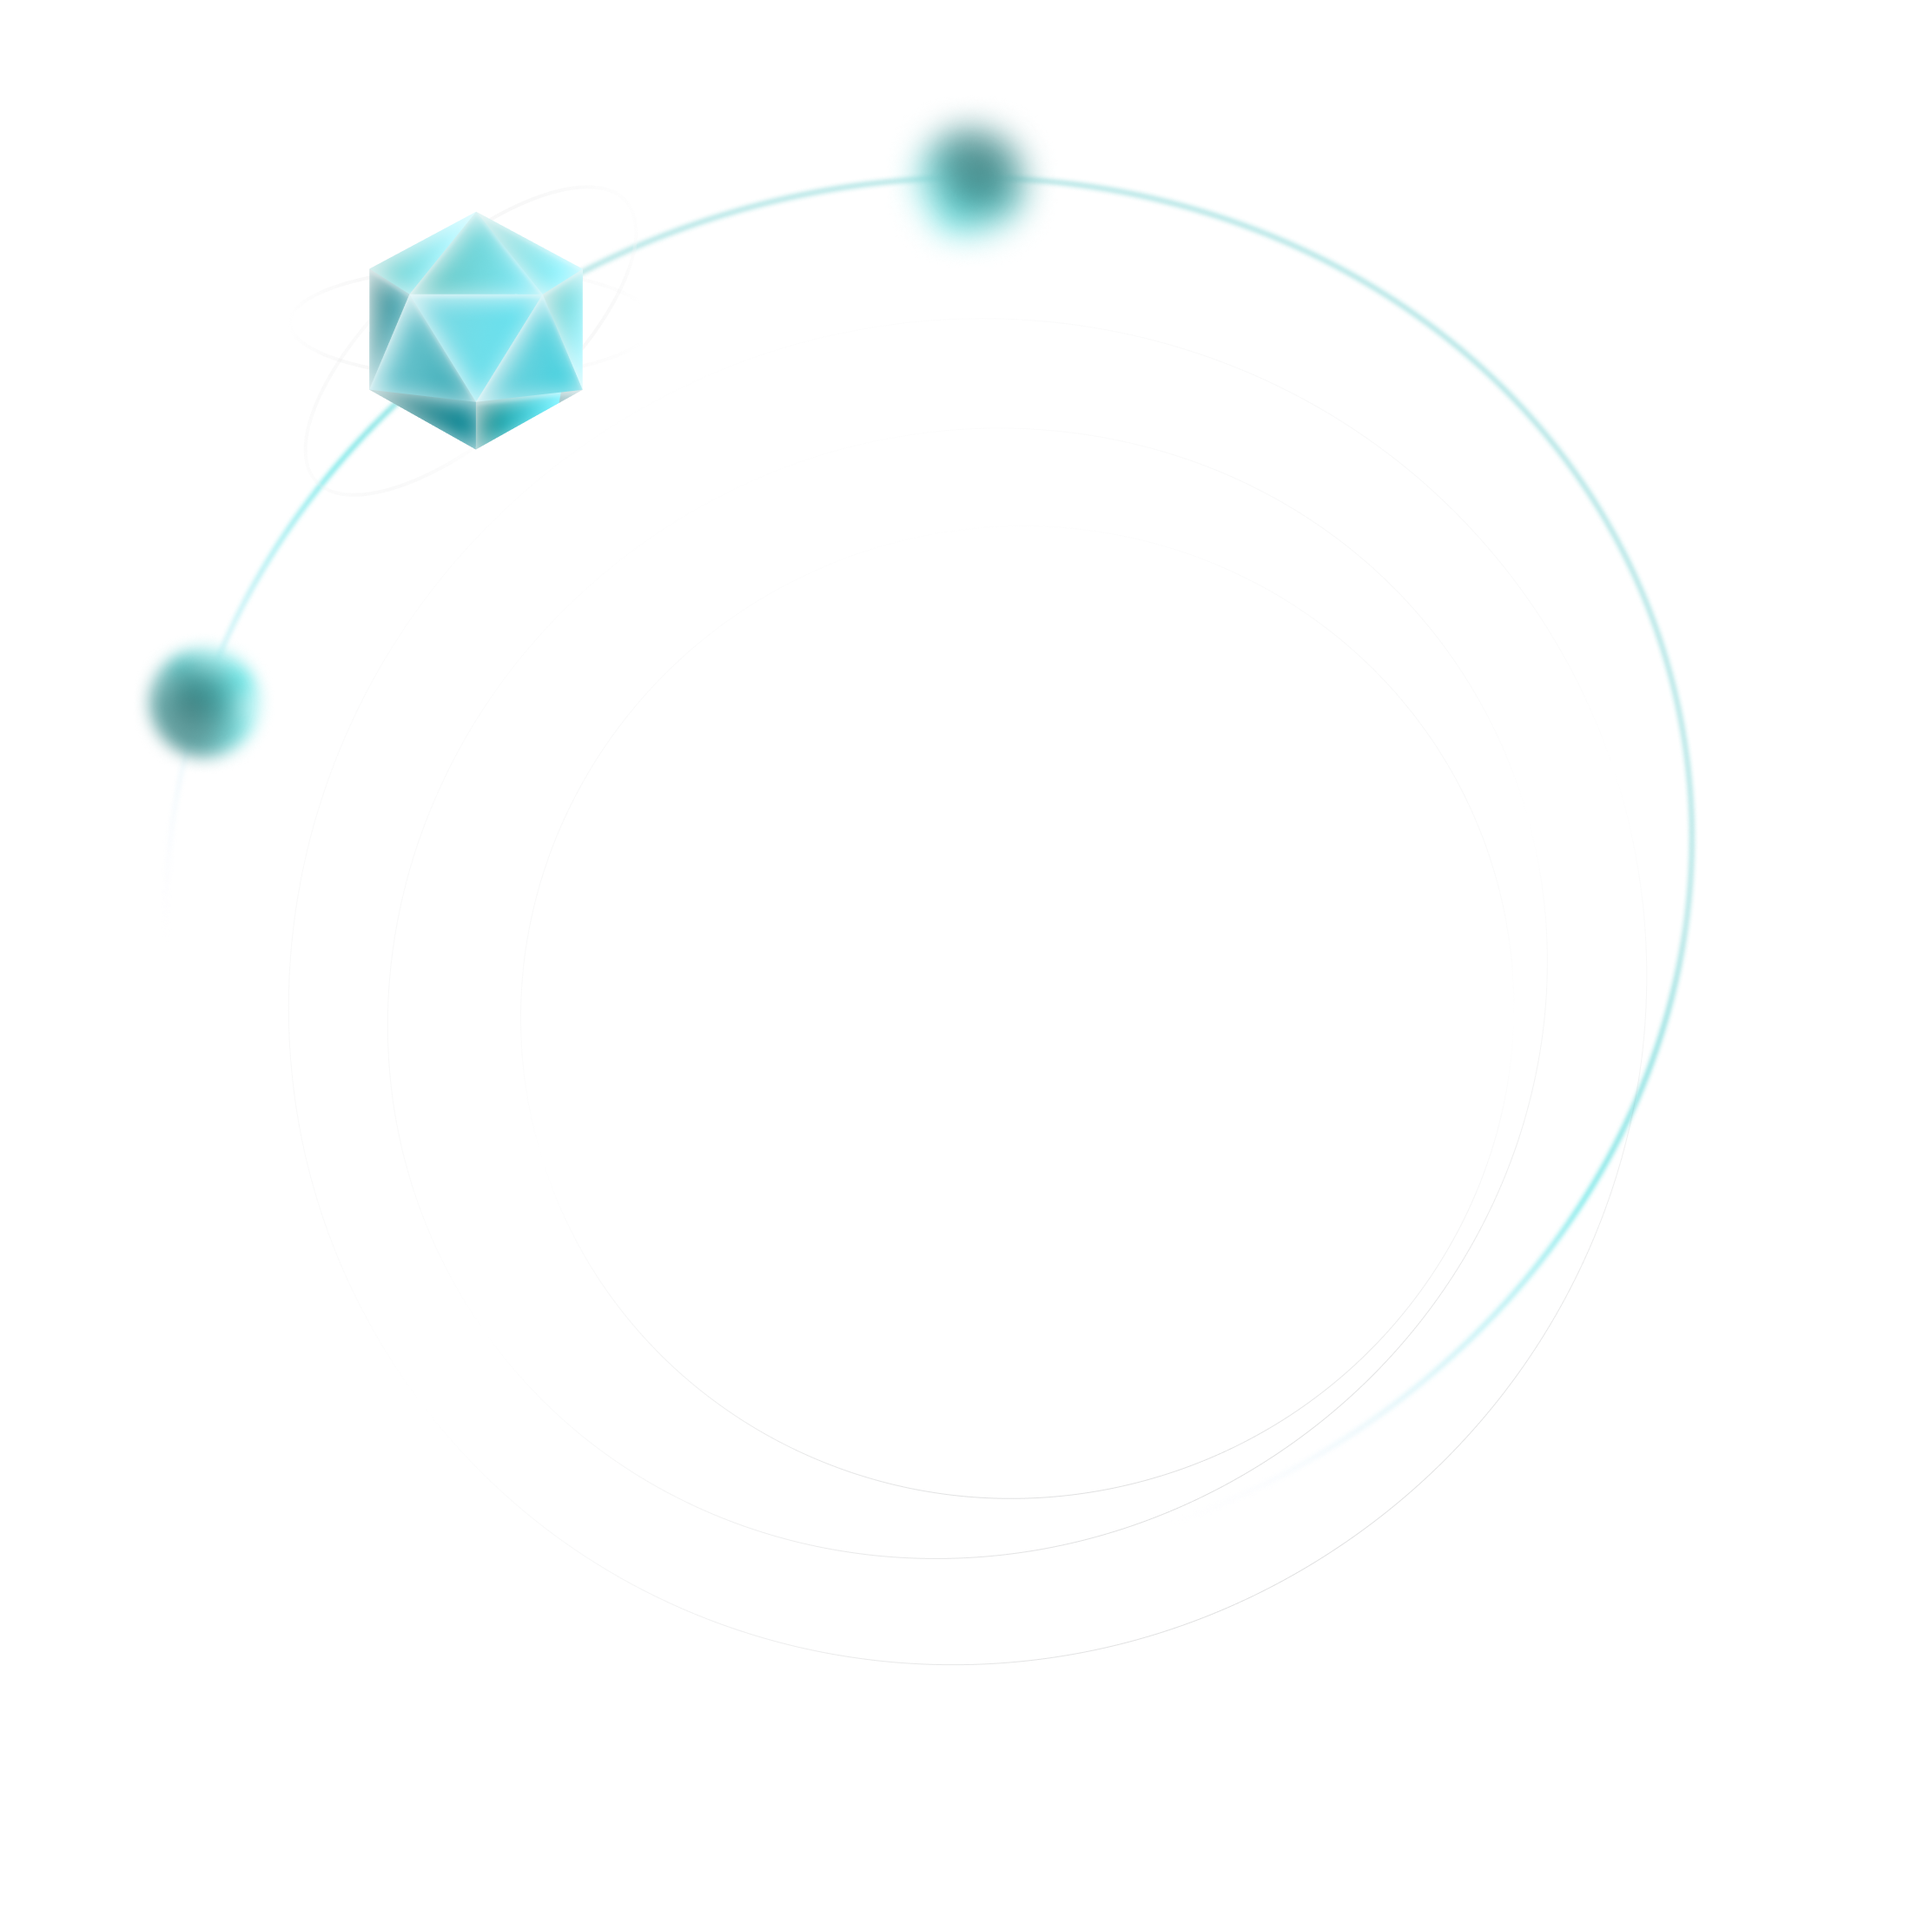
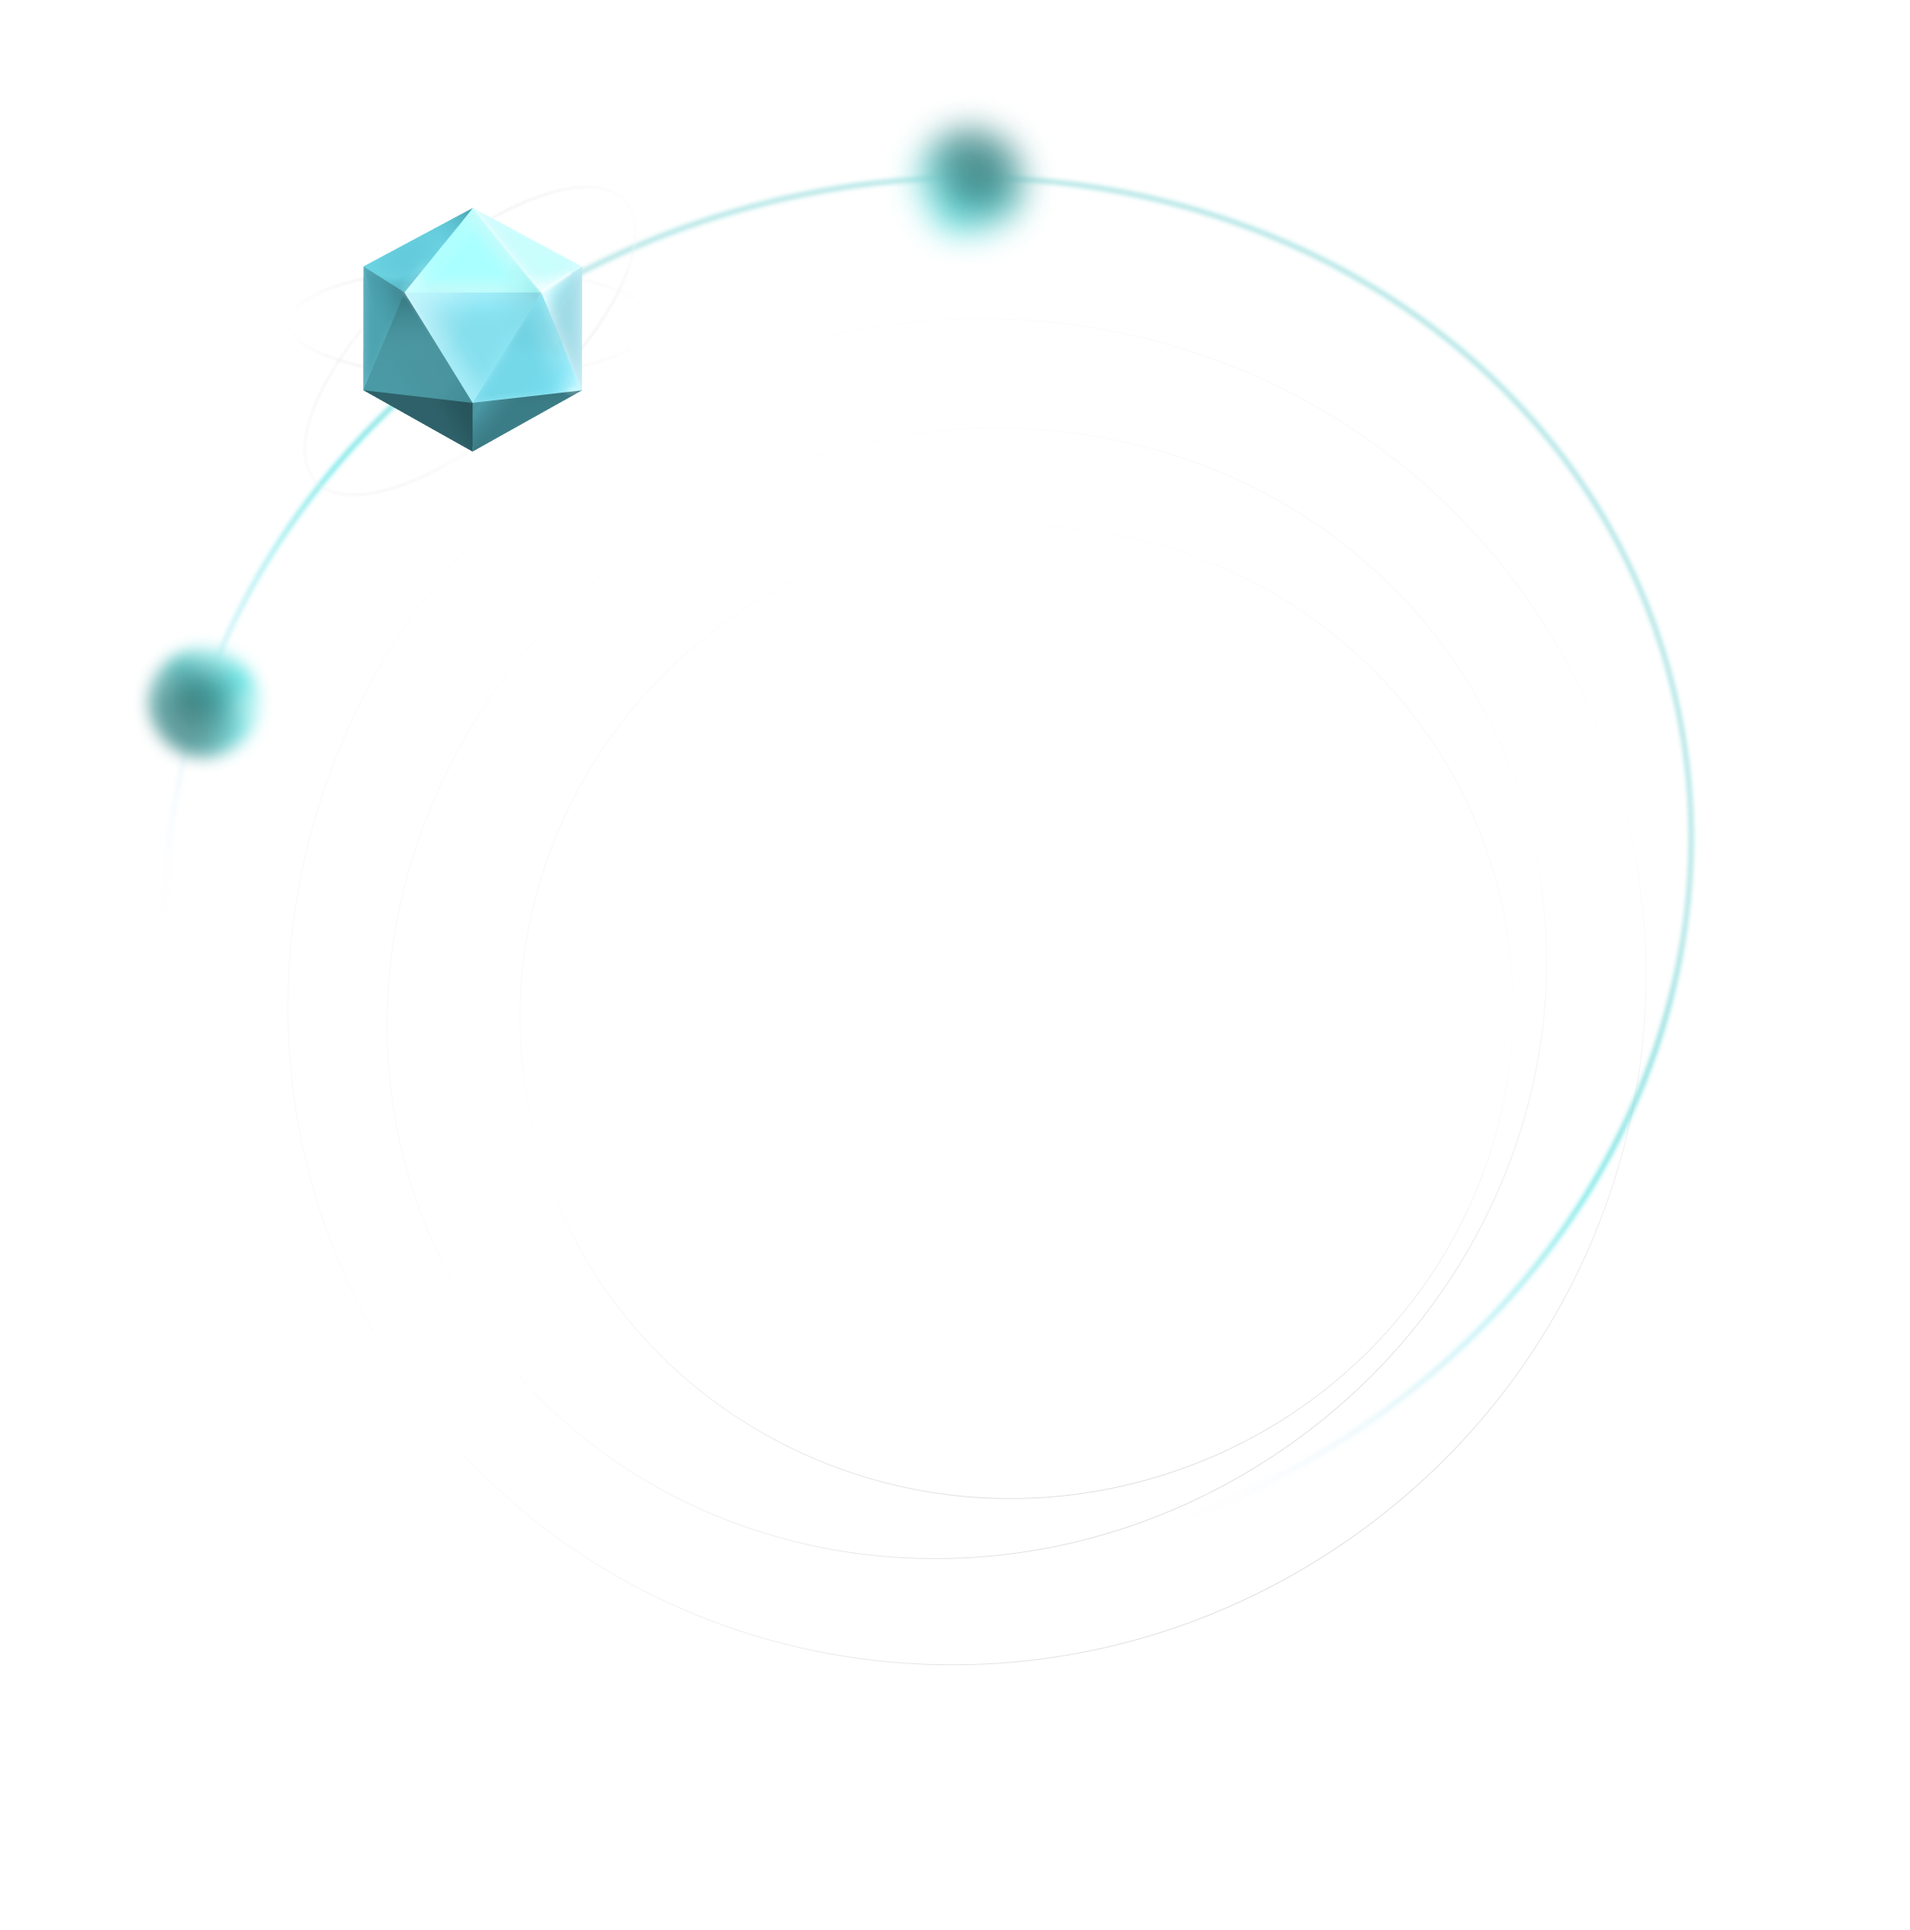
replace to new Images, fix ui alignment cause by new img, fix cardWithCTA text aligment and add subscribe function to recieve update

Changed region(s): [[0.1855, 0.0932, 0.3092, 0.2484]]

diff --git a/src/@carbon-info/views/ReceiveUpdates/ReceiveUpdates.tsx b/src/@carbon-info/views/ReceiveUpdates/ReceiveUpdates.tsx
@@ -1,8 +1,9 @@
-import React from "react";
+import React, { useState } from "react";
 import { Box, Grid, Input, InputAdornment, makeStyles, Theme, Typography } from "@material-ui/core";
 import { UpdateArrow } from "@carbon-info/assets";
 import { useInView } from "react-intersection-observer";
 import { FadeAndSlide } from "@carbon-info/components";
+import { emailRegex, newsLetterSignUpAPI } from "@carbon-info/constants";
 const ReceieveUpdates: React.FC = () => {
   const classes = useStyles();
   const { ref, inView } = useInView({
@@ -10,6 +11,40 @@ const ReceieveUpdates: React.FC = () => {
     threshold: 0.5,
     triggerOnce: true,
   });
+
+  const [loading, setLoading] = useState(false);
+  const [email, setEmail] = useState("");
+  const [error, setError] = useState("");
+  const [success, setSuccess] = useState("");
+
+  const onSubscribe = async () => {
+    if (loading) return;
+    if (!email.match(emailRegex)) return setError("Please enter a valid email address.");
+    setError("");
+    setSuccess("");
+    try {
+      const response = await fetch(newsLetterSignUpAPI.endpoint, {
+        method: "POST",
+        referrerPolicy: "no-referrer-when-downgrade",
+        headers: {
+          "Content-Type": "application/json",
+        },
+        body: JSON.stringify({ email: email, emailType: "subscribe", labels: [] }),
+      });
+      if (response.ok) {
+        setSuccess("Check your email to confirm subscription.");
+      } else {
+        setError("Failed to sign up, please try again later.");
+        console.error(new Error(JSON.stringify(response, null, 4)));
+      }
+    } catch (error) {
+      if (error && error.message)
+        setError(error.message);
+    } finally {
+      setLoading(false);
+    }
+  };
+
   return (
     <div ref={ref} id="recieveUpdates">
       <FadeAndSlide visible={inView}>
@@ -23,14 +58,19 @@ const ReceieveUpdates: React.FC = () => {
                 Unsubscribe at any time.
           </Typography>
             </Grid>
-            <Grid item xs={12} md={6} className={classes.inputContainer}>
-              <Input fullWidth placeholder="Insert Your Email"
-                endAdornment={
-                  <InputAdornment position="end">
-                    <UpdateArrow />
-                  </InputAdornment>
-                }
-              />
+            <Grid item xs={12} md={6}>
+              <div className={classes.inputContainer}>
+                <Input fullWidth placeholder="Insert Your Email"
+                  onChange={(event: React.ChangeEvent<HTMLInputElement>) => setEmail(event.target.value)}
+                  endAdornment={
+                    <InputAdornment position="end">
+                      <UpdateArrow onClick={onSubscribe} />
+                    </InputAdornment>
+                  }
+                />
+              </div>
+              {!!error && <Typography className={classes.text} variant="body2" color="error">{error}</Typography>}
+              {!!success && <Typography className={classes.text} variant="body2" color="primary">{success}</Typography>}
             </Grid>
           </Grid>
         </Box>
@@ -42,6 +82,15 @@ const ReceieveUpdates: React.FC = () => {
 export default ReceieveUpdates;
 
 const useStyles = makeStyles((theme: Theme) => ({
+  text: {
+    fontSize: "90%",
+    [theme.breakpoints.down("sm")]: {
+      fontSize: "initial",
+    },
+    [theme.breakpoints.down("xs")]: {
+      fontSize: "small",
+    },
+  },
   divTitle: {
     fontFamily: "TyrosPro",
     fontWeight: 300,

diff --git a/src/@carbon-info/views/Permissionless/Permissionless.tsx b/src/@carbon-info/views/Permissionless/Permissionless.tsx
@@ -137,7 +137,13 @@ const useStyles = makeStyles((theme: Theme) => ({
       maxWidth: "54rem",
       "&.open": {
         opacity: 1,
-        transform: "translate(0px,0px) scale(1.75)",
+        transform: "translate(0px,0px) scale(1.25)",
+      },
+    },
+    [theme.breakpoints.down(400)]: {
+      "&.open": {
+        opacity: 1,
+        transform: "translate(0px,0px) scale(1.55)",
       },
     },
   },

diff --git a/src/@carbon-info/components/CardWithCTA.tsx b/src/@carbon-info/components/CardWithCTA.tsx
@@ -198,10 +198,14 @@ const useStyles = makeStyles((theme: Theme) => ({
   },
   divTitle: {
     [theme.breakpoints.down("sm")]: {
+      width: "90%",
       fontFamily: "TyrosPro",
       // fontWeight: 300,
       fontSize: "3.1rem",
       // lineHeight: "2.3rem",
+    },
+    [theme.breakpoints.down("xs")]: {
+      width: "100%",
     },
   },
   gridContainer: {

diff --git a/src/@carbon-info/constants/constants.ts b/src/@carbon-info/constants/constants.ts
@@ -1,0 +1,5 @@
+//eslint-disable-next-line
+export const emailRegex = /^(([^<>()\[\]\\.,;:\s@"]+(\.[^<>()\[\]\\.,;:\s@"]+)*)|(".+"))@((\[[0-9]{1,3}\.[0-9]{1,3}\.[0-9]{1,3}\.[0-9]{1,3}\])|(([a-zA-Z\-0-9]+\.)+[a-zA-Z]{2,}))$/;
+export const newsLetterSignUpAPI = {
+  endpoint: "https://blog.switcheo.network/members/api/send-magic-link/",
+};

diff --git a/src/@carbon-info/constants/index.ts b/src/@carbon-info/constants/index.ts
@@ -1,1 +1,2 @@
 export * from "./links";
+export * from "./constants";
